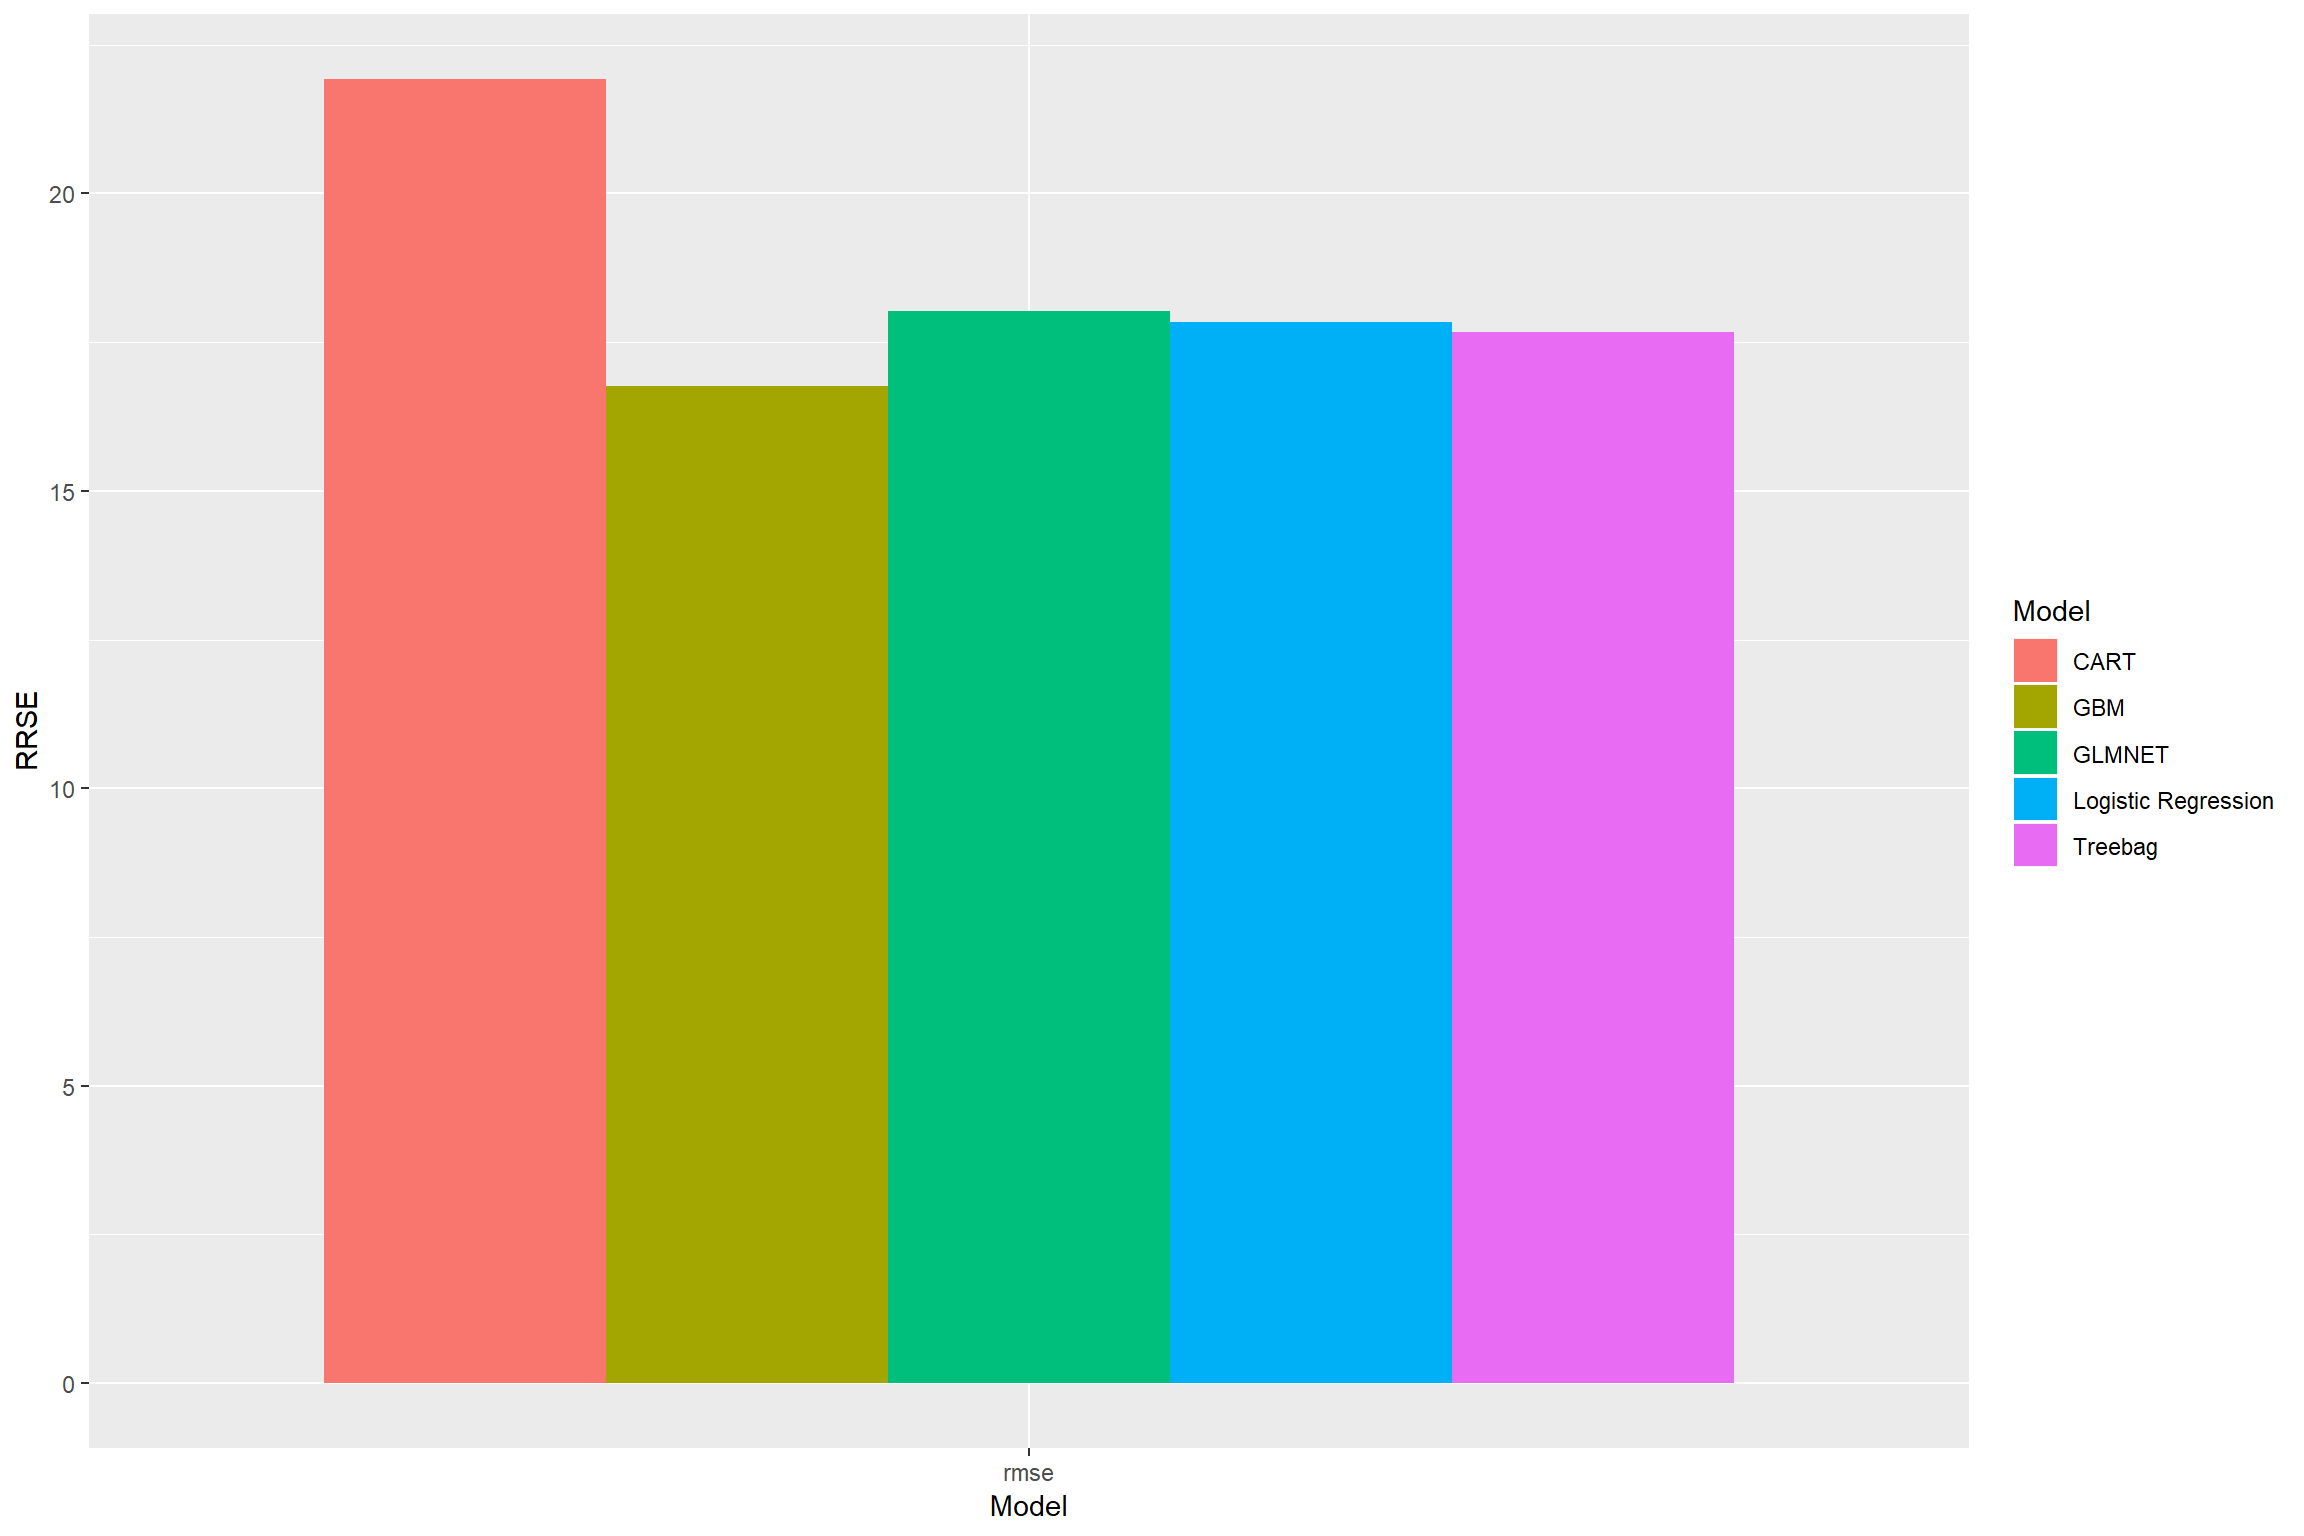
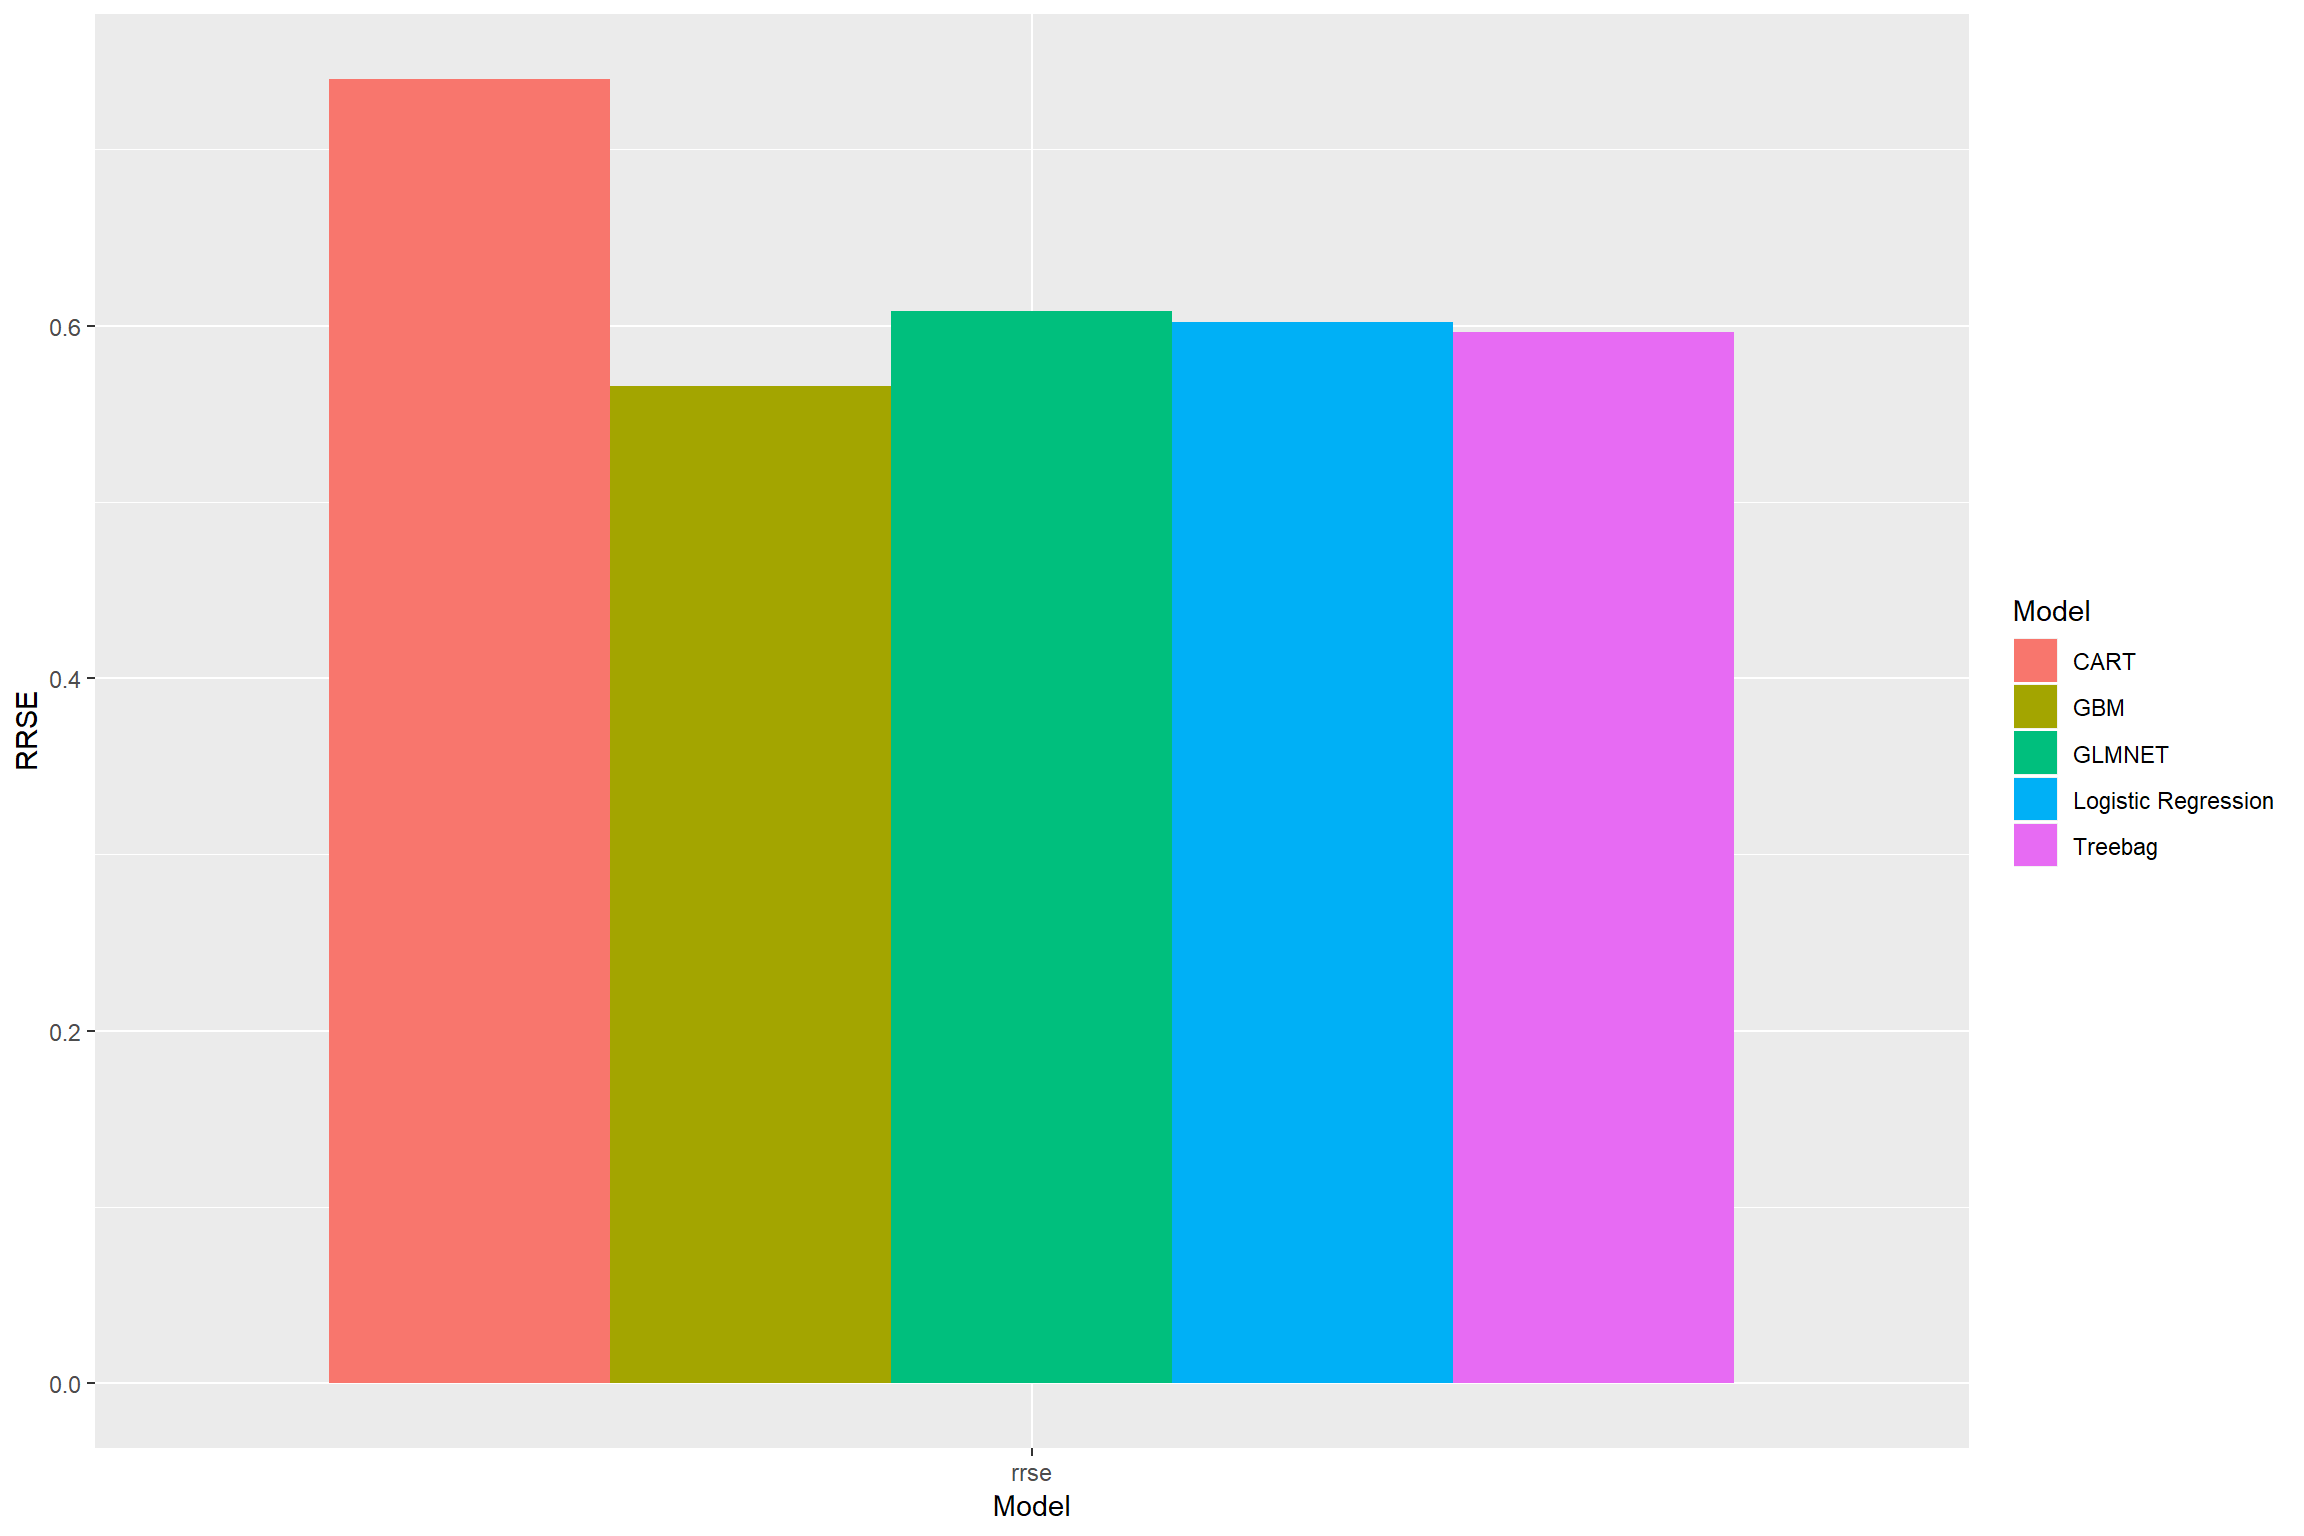
Fix again...

Changed region(s): [[0.4375, 0.9375, 0.4688, 1.0]]

diff --git a/data_modelling.html b/data_modelling.html
@@ -1492,11 +1492,16 @@ kable(predictions)</code></pre>
       rrse(predictions$test_data.SES,predictions$gbm)
     )
 
-    
-    prediction &lt;- data.frame(model_list, rmse_score)
+    prediction &lt;- data.frame(model_list, rmse_score, rrse_score)
+    prediction1 &lt;- data.frame(model_list, rmse_score)
     prediction2 &lt;- data.frame(model_list, rrse_score)
+    
     colnames(prediction)[1] &lt;- &quot;Model&quot;
     colnames(prediction)[2] &lt;- &quot;RMSE&quot;
+    colnames(prediction)[3] &lt;- &quot;RRSE&quot;
+    
+    colnames(prediction1)[1] &lt;- &quot;Model&quot;
+    colnames(prediction1)[2] &lt;- &quot;RMSE&quot;
     colnames(prediction2)[1] &lt;- &quot;Model&quot;
     colnames(prediction2)[2] &lt;- &quot;RRSE&quot;
     kable(prediction)</code></pre>
@@ -1505,41 +1510,47 @@ kable(predictions)</code></pre>
 <tr class="header">
 <th align="left">Model</th>
 <th align="left">RMSE</th>
+<th align="left">RRSE</th>
 </tr>
 </thead>
 <tbody>
 <tr class="odd">
 <td align="left">Logistic Regression</td>
 <td align="left">17.8355430107563</td>
+<td align="left">0.602024619097772</td>
 </tr>
 <tr class="even">
 <td align="left">GLMNET</td>
 <td align="left">18.0271043052409</td>
+<td align="left">0.608490618774734</td>
 </tr>
 <tr class="odd">
 <td align="left">CART</td>
 <td align="left">21.9158804441193</td>
+<td align="left">0.739753175364846</td>
 </tr>
 <tr class="even">
 <td align="left">Treebag</td>
 <td align="left">17.6720721660914</td>
+<td align="left">0.596506790291909</td>
 </tr>
 <tr class="odd">
 <td align="left">GBM</td>
 <td align="left">16.75691996891</td>
+<td align="left">0.565616553163026</td>
 </tr>
 </tbody>
 </table>
-<pre class="r"><code>prediction$rmse &lt;- as.numeric(as.character(prediction$RMSE))
-prediction &lt;- subset(prediction, select = -c(RMSE))
-prediction_m &lt;- gather(prediction, variable, value, -Model, convert = FALSE)
-ggplot(data = prediction_m, aes(x = variable, y = value, fill = Model)) +
+<pre class="r"><code>prediction1$rmse &lt;- as.numeric(as.character(prediction1$RMSE))
+prediction1 &lt;- subset(prediction1, select = -c(RMSE))
+prediction_m1 &lt;- gather(prediction1, variable, value, -Model, convert = FALSE)
+ggplot(data = prediction_m1, aes(x = variable, y = value, fill = Model)) +
   geom_col(position = position_dodge()) + ylab(&quot;RMSE&quot;) + xlab(&quot;Model&quot;)</code></pre>
 <p><img src="data_modelling_files/figure-html/unnamed-chunk-4-1.png" width="1152" /></p>
 <pre class="r"><code>prediction2$rrse &lt;- as.numeric(as.character(prediction2$RRSE))
 prediction2 &lt;- subset(prediction2, select = -c(RRSE))
 prediction_m2 &lt;- gather(prediction2, variable, value, -Model, convert = FALSE)
-ggplot(data = prediction_m, aes(x = variable, y = value, fill = Model)) +
+ggplot(data = prediction_m2, aes(x = variable, y = value, fill = Model)) +
   geom_col(position = position_dodge()) + ylab(&quot;RRSE&quot;) + xlab(&quot;Model&quot;)</code></pre>
 <p><img src="data_modelling_files/figure-html/unnamed-chunk-5-1.png" width="1152" /></p>
 </div>
